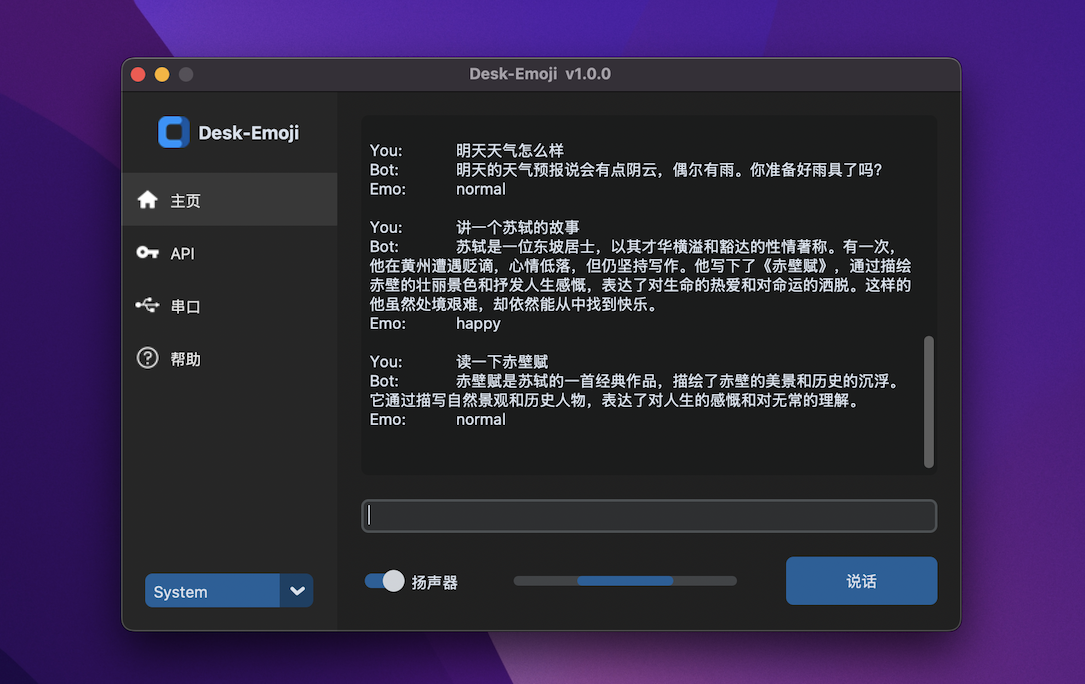
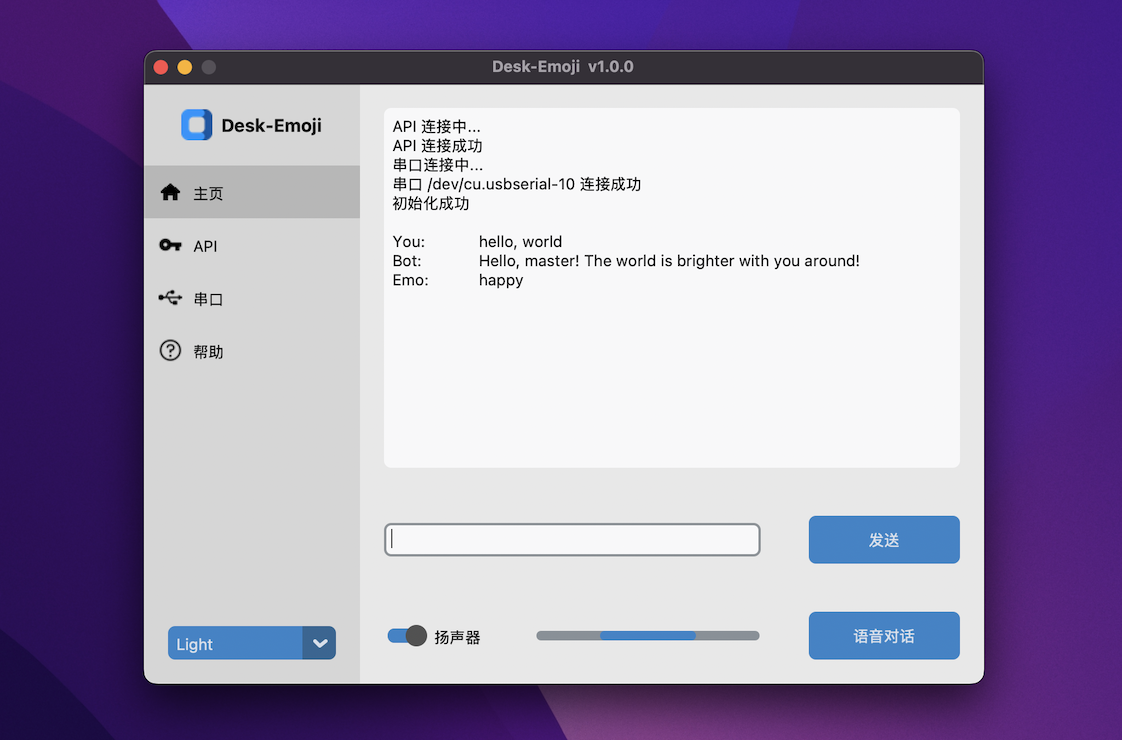
modified:   doc/en/software_manual.md 	modified:   doc/image/software_manual/1731337588248.png 	modified:   doc/image/software_manual/1731337596886.png 	modified:   doc/image/software_manual/1731337605099.png 	deleted:    doc/image/software_manual/1731337610981.png 	modified:   "doc/zh/\350\275\257\

diff --git a/main.py b/main.py
@@ -17,7 +17,7 @@ class App(ctk.CTk):
         # init window
         self.title("Desk-Emoji  v1.0.0")
         self.window_width = 700
-        self.window_height = 450
+        self.window_height = 500
         self.geometry(f"{self.window_width}x{self.window_height}")
         self.resizable(False, False)
         self.center_window()
@@ -81,8 +81,12 @@ class App(ctk.CTk):
         self.textbox.grid(row=0, column=0, columnspan=3, padx=(20, 20), pady=(20, 20), sticky="nsew")
 
         self.chat_msg = ctk.CTkEntry(self.home_frame)
-        self.chat_msg.grid(row=1, column=0, columnspan=3, padx=20, pady=0, sticky="nsew")
+        self.chat_msg.grid(row=1, column=0, columnspan=2, padx=20, pady=0, sticky="ew")
         self.chat_msg.bind("<Return>", self.chat_msg_event)
+
+        self.chat_button = ctk.CTkButton(self.home_frame, text="发送", height=40,
+                                         command=self.chat_msg_event)
+        self.chat_button.grid(row=1, column=2, padx=20, pady=20, sticky='e')
 
         self.speaker_switch = ctk.CTkSwitch(self.home_frame, text="扬声器")
         self.speaker_switch.grid(row=2, column=0, padx=20, pady=20, sticky="nsew")
@@ -92,10 +96,9 @@ class App(ctk.CTk):
         self.speech_bar.grid(row=2, column=1, padx=20, pady=20, sticky="e")
         self.speech_bar.configure(mode="indeterminate")
 
-        self.speech_button = ctk.CTkButton(self.home_frame, text="说话", height=40,
+        self.speech_button = ctk.CTkButton(self.home_frame, text="语音对话", height=40,
                                            command=self.speech_button_event)
         self.speech_button.grid(row=2, column=2, padx=20, pady=20, sticky='e')
-        self.original_button_color = ctk.ThemeManager.theme["CTkButton"]["fg_color"]
 
         # create usb frame
         self.usb_frame = ctk.CTkFrame(self, corner_radius=0, fg_color="transparent")
@@ -251,7 +254,7 @@ Desk-Emoji 桌面陪伴机器人
                 speaker.say(answer)
             threading.Thread(target=act_emotion, args=(emotion,)).start()
 
-    def chat_msg_event(self, event):
+    def chat_msg_event(self, event=None):
         question = self.chat_msg.get()
         if question:
             self.chat_msg.delete(0, tk.END)

diff --git a/doc/zh/软件手册.md b/doc/zh/软件手册.md
@@ -1,6 +1,8 @@
 ## 安装
 
-* Python 版本推荐在3.9～3.11之间
+* 从 [Python官网](https://www.python.org/) 下载python并安装：
+
+  * Python 版本推荐在3.9～3.11之间
 * 首先初始化虚拟环境：
 
   * 对于 MacOS 或 Linux:
@@ -22,6 +24,5 @@
 ## 使用
 
 * 首先设置USB端口![1731337605099](../image/software_manual/1731337605099.png)
-* 设置 API（默认GPT-4o-mini）![1731337596886](../image/software_manual/1731337596886.png)
+* 设置 API（需要支持GPT-4o-mini）![1731337596886](../image/software_manual/1731337596886.png)
 * 切换到“主页"进行对话。![1731337588248](../image/software_manual/1731337588248.png)
-* 切换主题![1731337610981](../image/software_manual/1731337610981.png)

diff --git a/doc/en/software_manual.md b/doc/en/software_manual.md
@@ -1,6 +1,8 @@
 ## Installation
 
-* 3.9 <= Python version <= 3.11
+* Download and install Python from [python.org](https://www.python.org/):
+
+  * 3.9 <= python version <= 3.11
 * Initialize environment
 
   * For MacOS or Linux:
@@ -23,5 +25,4 @@
 
 * Set USB Port first ![1731337605099](../image/software_manual/1731337605099.png)
 * Set API![1731337596886](../image/software_manual/1731337596886.png)
-* Change Themes![1731337610981](../image/software_manual/1731337610981.png)
 * Type words in textbox then type enter or click "说话" for voice chat.![1731337588248](../image/software_manual/1731337588248.png)
